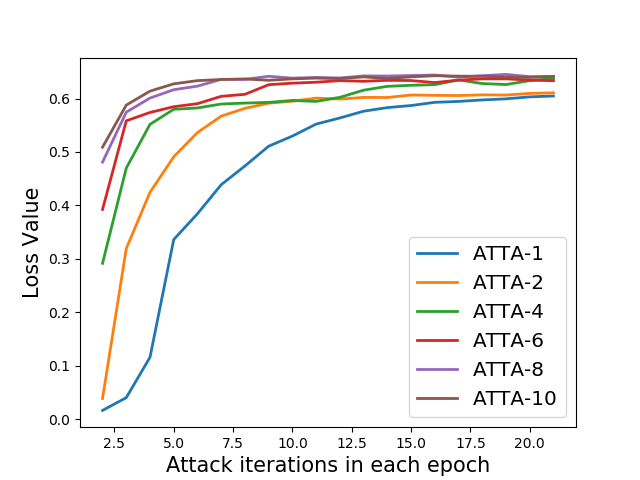
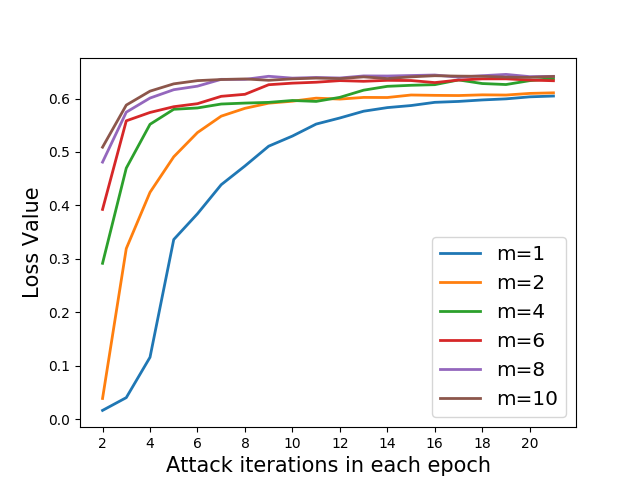
update test result

diff --git a/draw_iteration_loss.py b/draw_iteration_loss.py
@@ -12,12 +12,12 @@ log5 = open('data-log/measure/atta-loss-8.log')
 log6 = open('data-log/measure/atta-loss-10.log')
 
 
-label1 = "ATTA-1"
-label2 = "ATTA-2"
-label3 = "ATTA-4"
-label4 = "ATTA-6"
-label5 = "ATTA-8"
-label6 = "ATTA-10"
+label1 = "m=1"
+label2 = "m=2"
+label3 = "m=4"
+label4 = "m=6"
+label5 = "m=8"
+label6 = "m=10"
 
 data1 = []
 data2 = []
@@ -60,6 +60,8 @@ plt.plot(x, adv_loss3, color=current_palette[2], label=label3, lw=2)
 plt.plot(x, adv_loss4, color=current_palette[3], label=label4, lw=2)
 plt.plot(x, adv_loss5, color=current_palette[4], label=label5, lw=2)
 plt.plot(x, adv_loss6, color=current_palette[5], label=label6, lw=2)
+even = [ n for n in x if n%2==0]
+plt.xticks(even)
 
 plt.xlabel("Attack iterations in each epoch", fontsize=15)
 plt.ylabel("Loss Value", fontsize=15)
